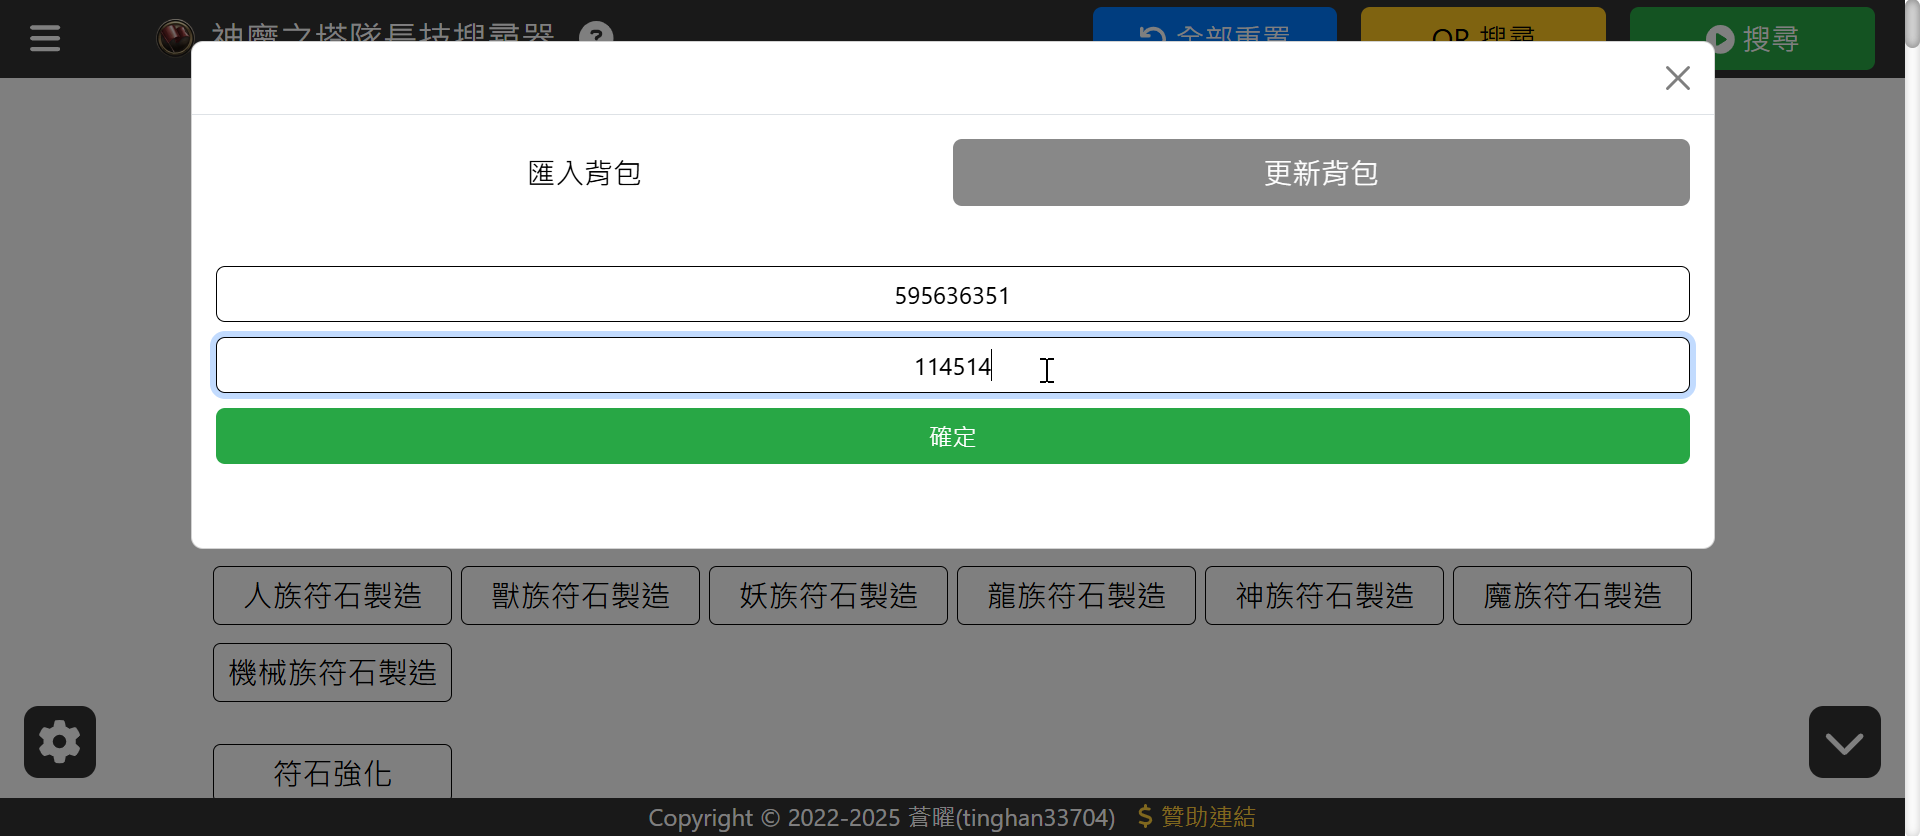
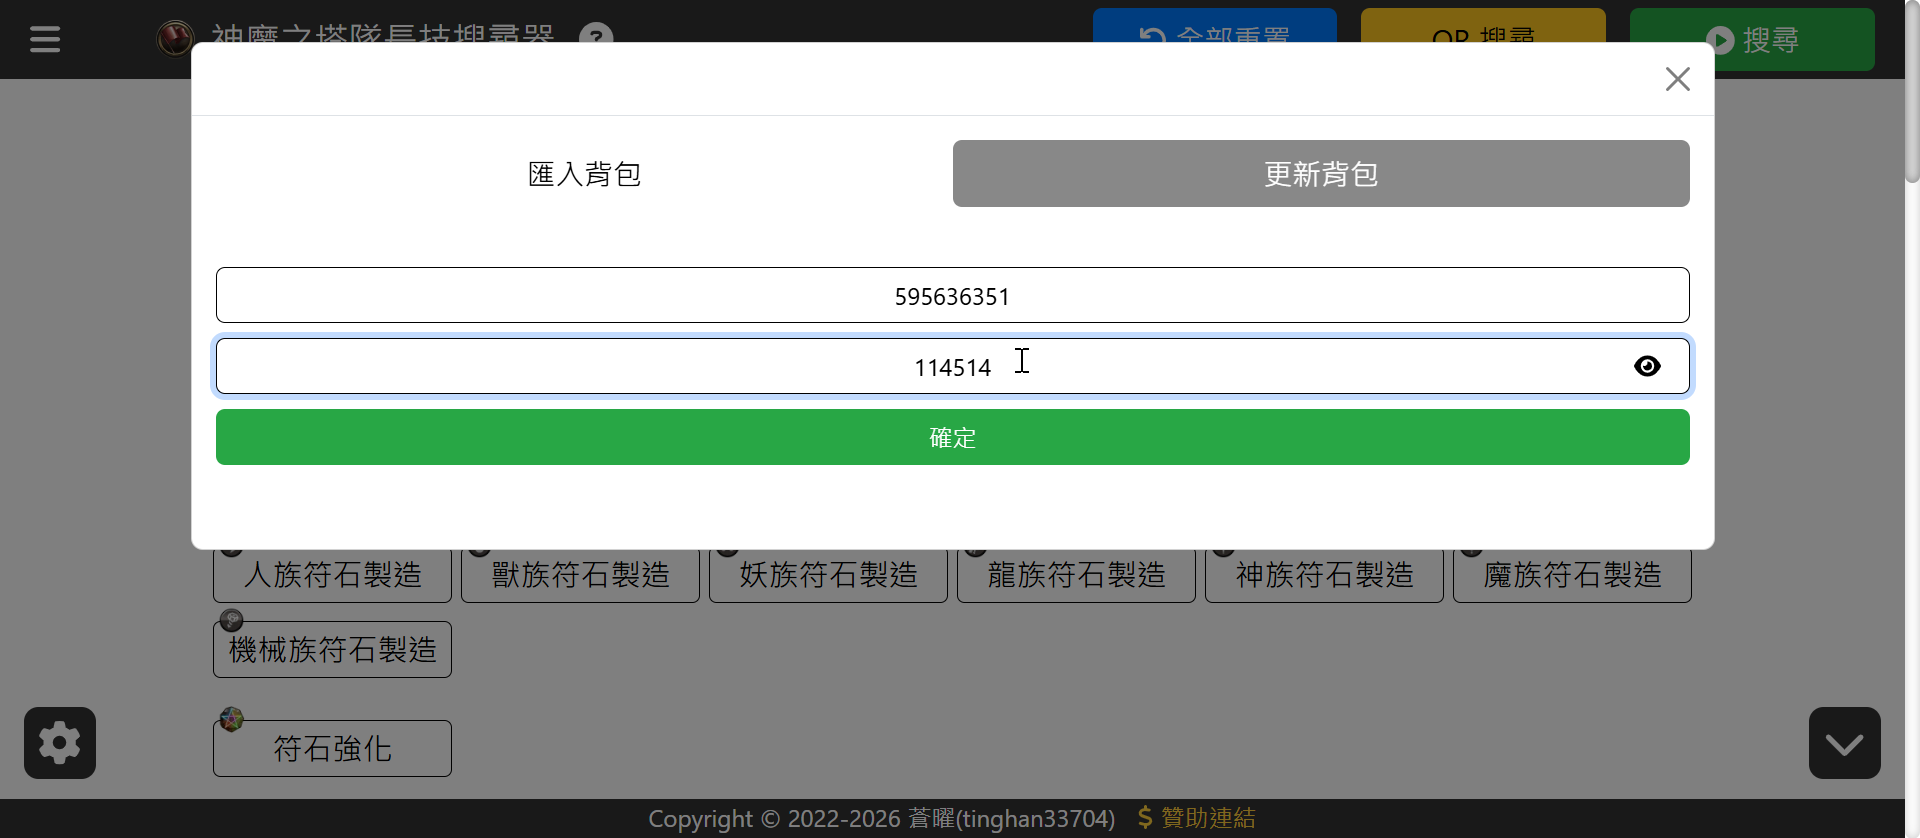
add store verification code

diff --git a/src/shared/UserDataModal/UserDataModal.tsx b/src/shared/UserDataModal/UserDataModal.tsx
@@ -1,6 +1,12 @@
 import React, { useRef, useState, useCallback, useContext } from "react"
 import { Col, Form, Modal, Nav, Row, Tab } from "react-bootstrap"
-import { faCheck, faDownload, faTimes } from "@fortawesome/free-solid-svg-icons"
+import {
+    faCheck,
+    faDownload,
+    faEye,
+    faEyeSlash,
+    faTimes,
+} from "@fortawesome/free-solid-svg-icons"
 
 import { uidMaxLength, veriMaxLength } from "src/constant/filterConstants"
 import { fetchPlayerData, setUrlParams } from "src/utilities/utils"
@@ -25,9 +31,12 @@ const UserDataModal: React.FC<IUserDataModalProps> = (props) => {
 
     const [action, setAction] = useState<string>("import")
     const [uid, setUid] = useState<string>("")
-    const [veri, setVeri] = useState<string>("")
+    const [veri, setVeri] = useState<string>(
+        localStorage.getItem("VERIFICATION_CODE") || "",
+    )
     const [inputDisabled, setInputDisabled] = useState<boolean>(false)
     const [dataStatus, setDataStatus] = useState<IObject>({})
+    const [hideVeriCode, setHideVeriCode] = useState<boolean>(true)
 
     const onCloseModal = useCallback(() => {
         setAction("import")
@@ -35,6 +44,7 @@ const UserDataModal: React.FC<IUserDataModalProps> = (props) => {
         setVeri("")
         setInputDisabled(false)
         setDataStatus({})
+        setHideVeriCode(true)
 
         onClose()
     }, [onClose])
@@ -50,9 +60,10 @@ const UserDataModal: React.FC<IUserDataModalProps> = (props) => {
         (selectedTab: string | null) => {
             if (selectedTab !== action) {
                 setUid("")
-                setVeri("")
+                setVeri(localStorage.getItem("VERIFICATION_CODE") || "")
                 setInputDisabled(false)
                 setDataStatus({})
+                setHideVeriCode(true)
             }
         },
         [action],
@@ -98,6 +109,11 @@ const UserDataModal: React.FC<IUserDataModalProps> = (props) => {
         }
     }, [playerData])
 
+    const saveVerificationCode = useCallback(() => {
+        localStorage.setItem("VERIFICATION_CODE", veri)
+        saveBackpack()
+    }, [saveBackpack, veri])
+
     const onChangeUid = useCallback((uid: string) => {
         setUid(uid)
     }, [])
@@ -123,29 +139,43 @@ const UserDataModal: React.FC<IUserDataModalProps> = (props) => {
                 <div className='sub-panel'>
                     <Form>
                         <Form.Group>
-                            <Form.Control
-                                type='input'
-                                className='input uid-input'
-                                placeholder='輸入 UID'
-                                value={uid}
-                                maxLength={uidMaxLength}
-                                onChange={(e) => onChangeUid(e.target.value)}
-                                onKeyDown={onInputKeyPress}
-                                disabled={inputDisabled}
-                            />
-                            {event === "update" ? (
+                            <div className='input-wrapper'>
                                 <Form.Control
                                     type='input'
-                                    className='input veri-input'
-                                    placeholder='輸入驗證碼'
-                                    value={veri}
-                                    maxLength={veriMaxLength}
+                                    className='input uid-input'
+                                    placeholder='輸入 UID'
+                                    value={uid}
+                                    maxLength={uidMaxLength}
                                     onChange={(e) =>
-                                        onChangeVeri(e.target.value)
+                                        onChangeUid(e.target.value)
                                     }
                                     onKeyDown={onInputKeyPress}
                                     disabled={inputDisabled}
                                 />
+                            </div>
+                            {event === "update" ? (
+                                <div className='input-wrapper'>
+                                    <Form.Control
+                                        type={
+                                            hideVeriCode ? "password" : "input"
+                                        }
+                                        className='input veri-input'
+                                        placeholder='輸入驗證碼'
+                                        value={veri}
+                                        maxLength={veriMaxLength}
+                                        onChange={(e) =>
+                                            onChangeVeri(e.target.value)
+                                        }
+                                        onKeyDown={onInputKeyPress}
+                                        disabled={inputDisabled}
+                                    />
+                                    <Icon
+                                        icon={hideVeriCode ? faEyeSlash : faEye}
+                                        onClick={() =>
+                                            setHideVeriCode(!hideVeriCode)
+                                        }
+                                    />
+                                </div>
                             ) : (
                                 <></>
                             )}
@@ -154,12 +184,22 @@ const UserDataModal: React.FC<IUserDataModalProps> = (props) => {
                     <Row>
                         <Col xs={12}>
                             {dataStatus.status === "success" ? (
-                                <Button
-                                    className={"start-btn"}
-                                    text={"儲存背包"}
-                                    onClick={saveBackpack}
-                                    disabled={inputDisabled}
-                                />
+                                <>
+                                    {event === "update" && (
+                                        <Button
+                                            className={"start-btn"}
+                                            text={"儲存背包及驗證碼"}
+                                            onClick={saveVerificationCode}
+                                            disabled={inputDisabled}
+                                        />
+                                    )}
+                                    <Button
+                                        className={"start-btn"}
+                                        text={"儲存背包"}
+                                        onClick={saveBackpack}
+                                        disabled={inputDisabled}
+                                    />
+                                </>
                             ) : (
                                 <Button
                                     className={"start-btn"}
@@ -189,12 +229,16 @@ const UserDataModal: React.FC<IUserDataModalProps> = (props) => {
             )
         },
         [
-            dataStatus,
+            dataStatus.status,
+            dataStatus.text,
+            hideVeriCode,
             importData,
             inputDisabled,
             onChangeUid,
             onChangeVeri,
+            onInputKeyPress,
             saveBackpack,
+            saveVerificationCode,
             uid,
             veri,
         ],

diff --git a/src/shared/UserDataModal/style.scss b/src/shared/UserDataModal/style.scss
@@ -38,7 +38,7 @@
     .sub-panel {
         margin-top: 40px;
 
-        .input,
+        .input-wrapper,
         .btn {
             margin-top: 10px;
         }
@@ -73,6 +73,18 @@
 
             svg {
                 margin-right: 10px;
+            }
+        }
+
+        .input-wrapper {
+            display: flex;
+            align-items: center;
+
+            svg {
+                position: absolute;
+                right: 35px;
+                cursor: pointer;
+                color: var(--text-black);
             }
         }
     }
